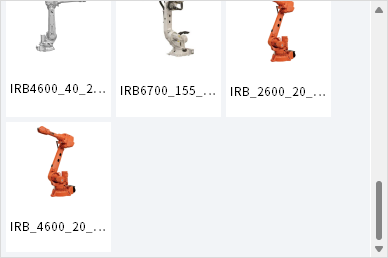
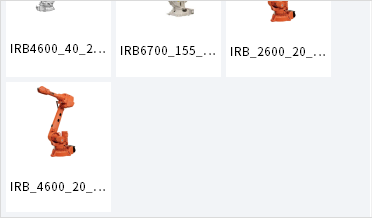
完成79条用例

diff --git a/Pages/Engineer.py b/Pages/Engineer.py
@@ -36,6 +36,8 @@ class Engineer:
         "gc_axis_bozhong": r"TempImage/工程/工程-附加轴-地轨-BoZhongPolishRail.png",
         "gc_axis_rail": r"TempImage/工程/工程-附加轴-地轨.png",
         "gc_axis": r"TempImage/工程/工程-附加轴.png",
+        "gc_robot_abb_slider_top": r"TempImage/工程/工程-机器人-ABB-滑动条上箭头.png",
+        "gc_robot_abb_slider_bottom": r"TempImage/工程/工程-机器人-ABB-滑动条下箭头.png",
         # 工程新增机器人模板
         "gc_robot_moka": r"TempImage/工程/工程-机器人-藦卡.png",
         "gc_robot_moka_mr12_2010": r"TempImage/工程/工程-机器人-藦卡-MR12-2010.png",
@@ -221,6 +223,7 @@ class Engineer:
         "assert_test_case_070": r"TempImage/断言/test_case_070.png",
         "assert_test_case_071": r"TempImage/断言/test_case_071.png",
         "assert_test_case_072": r"TempImage/断言/test_case_072.png",
+        "assert_test_case_072_1": r"TempImage/断言/test_case_072_1.png",
         "assert_test_case_073_1": r"TempImage/断言/test_case_073_1.png",
         "assert_test_case_073": r"TempImage/断言/test_case_073.png",
         "assert_test_case_074": r"TempImage/断言/test_case_074.png",

diff --git a/TestCases/test_case_01.py b/TestCases/test_case_01.py
@@ -12,7 +12,7 @@ from Common.AllurePretty import PrettyAllure
 from Pages.Engineer import Engineer
 from Common.Common import Common
 
-yaml_data = ReadYaml(os.path.join(Config.test_datas_dir, "test_data_01.yaml")).read(slice(73,79))
+yaml_data = ReadYaml(os.path.join(Config.test_datas_dir, "test_data_01.yaml")).read(slice(71,73))
 com = Common()
 eng = Engineer(common_instance=com)
 
